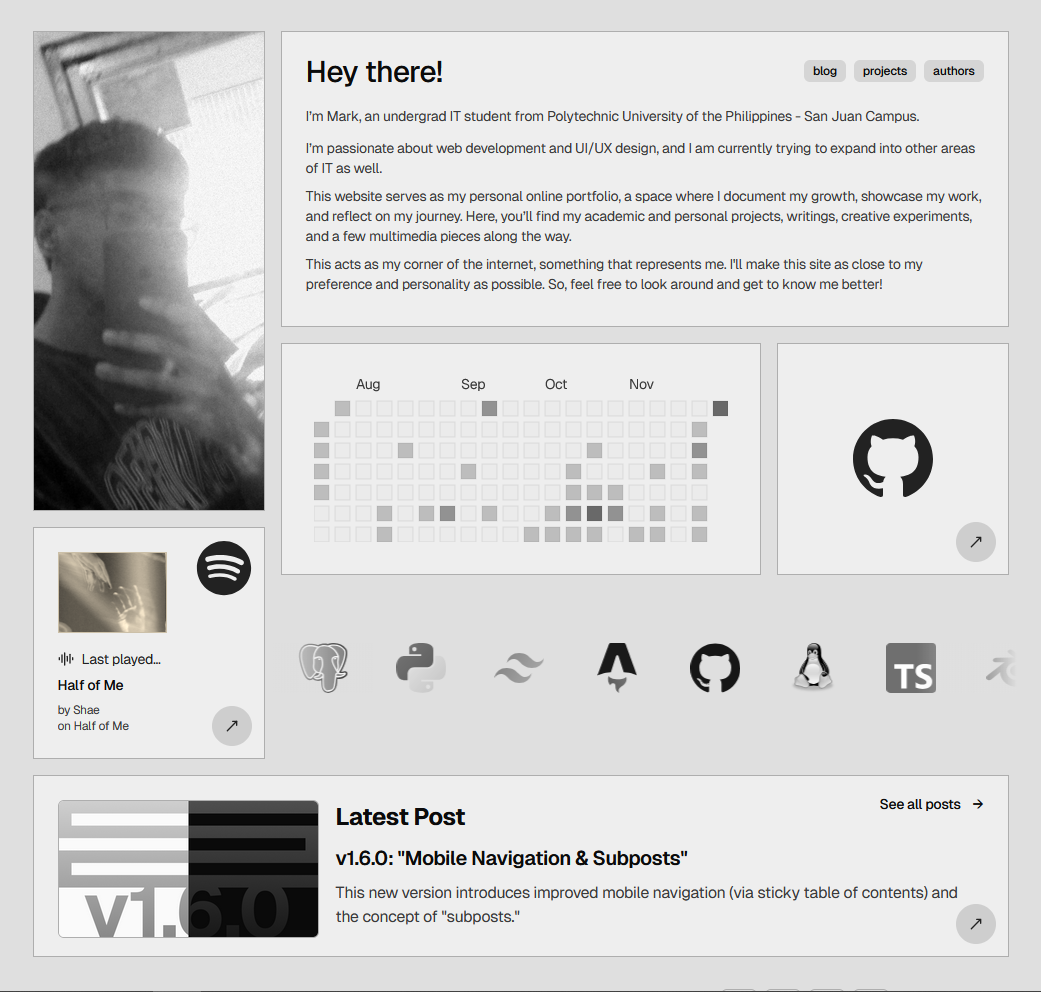
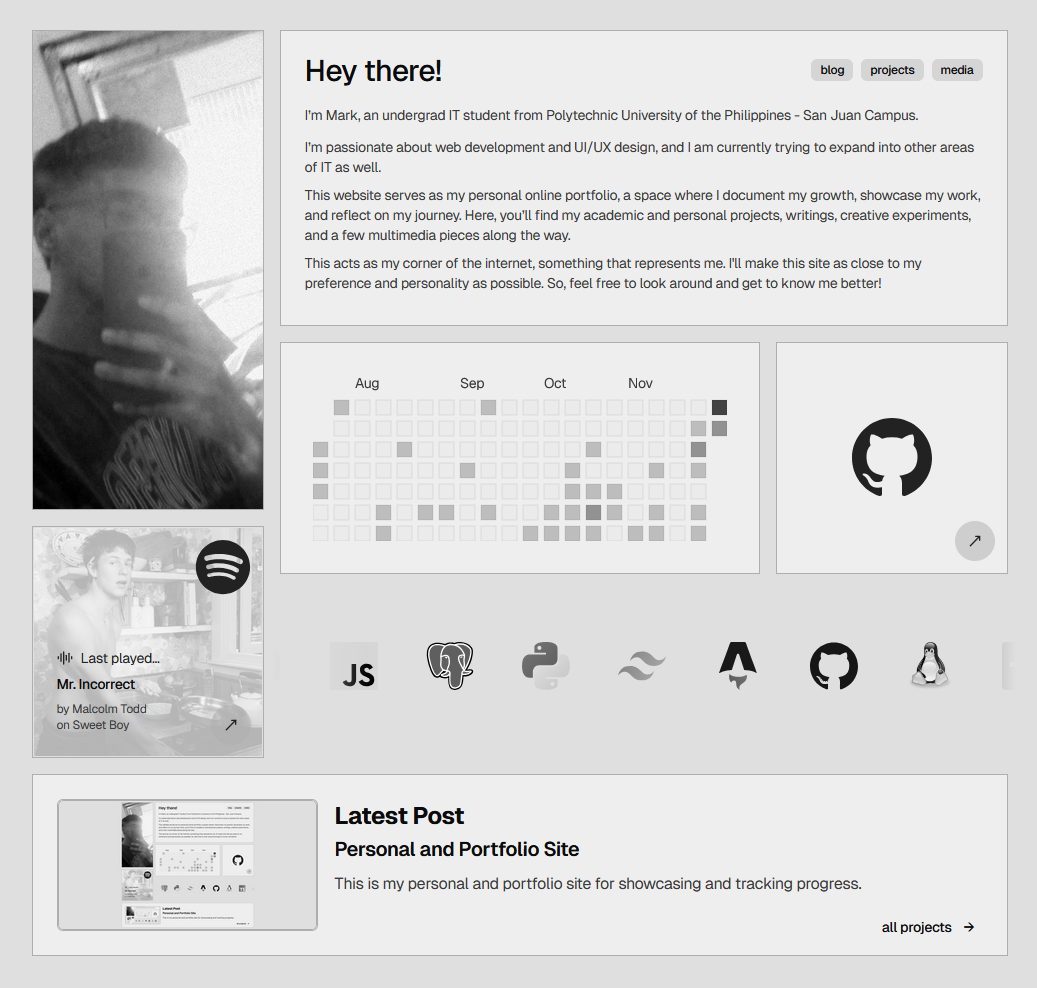
Refactor project schema and update UI for projects
Changed project schema 'name' to 'title' and made 'link' optional. Updated all project markdown files and related components to use 'title'. Improved ProjectCard and homepage UI to better handle projects and blog posts, including dynamic routing and display logic. Updated social links and added Instagram. Refactored data-utils to fetch both blog and project entries and sort by date.

diff --git a/src/lib/data-utils.ts b/src/lib/data-utils.ts
@@ -5,11 +5,26 @@ export async function getAllAuthors(): Promise<CollectionEntry<'authors'>[]> {
   return await getCollection('authors')
 }
 
-export async function getAllPosts(): Promise<CollectionEntry<'blog'>[]> {
-  const posts = await getCollection('blog')
-  return posts
-    .filter((post) => !post.data.draft && !isSubpost(post.id))
-    .sort((a, b) => b.data.date.valueOf() - a.data.date.valueOf())
+// export async function getAllPosts(): Promise<CollectionEntry<'blog'>[]> {
+//   const posts = await getCollection('blog')
+//   return posts
+//     .filter((post) => !post.data.draft && !isSubpost(post.id))
+//     .sort((a, b) => b.data.date.valueOf() - a.data.date.valueOf())
+// }
+
+export async function getAllPosts() {
+  const blog = await getCollection("blog");
+  const projects = await getCollection("projects");
+
+  const getDate = (post) =>
+    post.data.date ||
+    post.data.startDate ||
+    post.data.endDate ||
+    new Date(0);
+
+  return [...blog, ...projects]
+    .filter((post) => !post.data.draft)
+    .sort((a, b) => getDate(b).valueOf() - getDate(a).valueOf());
 }
 
 export async function getAllPostsAndSubposts(): Promise<
@@ -158,17 +173,17 @@ export async function getSubpostsForParent(
 }
 
 export function groupPostsByYear(
-  posts: CollectionEntry<'blog'>[],
-): Record<string, CollectionEntry<'blog'>[]> {
-  return posts.reduce(
-    (acc: Record<string, CollectionEntry<'blog'>[]>, post) => {
-      const year = post.data.date.getFullYear().toString()
-      ;(acc[year] ??= []).push(post)
-      return acc
-    },
-    {},
-  )
+  posts: Array<{ data: { date?: Date } }>
+): Record<string, typeof posts> {
+  return posts.reduce((acc, post) => {
+    if (!post.data.date) return acc; // <-- Skip projects or missing date
+
+    const year = post.data.date.getFullYear().toString();
+    (acc[year] ??= []).push(post);
+    return acc;
+  }, {});
 }
+
 
 export async function hasSubposts(postId: string): Promise<boolean> {
   const subposts = await getSubpostsForParent(postId)

diff --git a/src/components/bento/SpotifyPresence.tsx b/src/components/bento/SpotifyPresence.tsx
@@ -176,14 +176,14 @@ const SpotifyPresence = () => {
         <>
             <div className="relative flex size-full flex-col justify-between gap-4 p-6">
                 <div
-                    className="absolute w-full z-[-1] top-0 left-0 sm:z-1 sm:static aspect-square min-h-0 sm:max-w-[60%] flex-shrink border bg-cover bg-center grayscale"
+                    className="absolute w-full z-[-1] top-0 left-0 aspect-square min-h-0 flex-shrink border bg-cover bg-center grayscale"
                     style={{
                         backgroundImage: `url(${image[3]['#text']})`,
                     }}
                     role="img"
                     aria-label="Album art"
                 />
-                <div className="flex min-h-0 flex-shrink-0 flex-col justify-end">
+                <div className="flex min-h-0 flex-shrink-0 flex-col justify-end h-full">
                     <div className="mr-8 flex flex-col text-xs sm:text-sm">
                         <span className="mb-2 flex items-center gap-2">
                             <AudioLines size={16} className="text-primary hidden sm:block" />

diff --git a/src/consts.ts b/src/consts.ts
@@ -34,17 +34,13 @@ export const SOCIAL_LINKS: SocialLink[] = [
     href: 'https://github.com/pulge',
     label: 'GitHub',
   },
-  // {
-  //   href: 'https://twitter.com/enscry',
-  //   label: 'Twitter',
-  // },
   {
-    href: 'mailto:fulguerinasmarkjason0311@gmail.com',
-    label: 'Email',
+    href: 'https://www.instagram.com/_mark.rcn/',
+    label: 'Instagram',
   },
   {
-    href: 'https://www.linkedin.com/in/fulguerinas-mark-jason-r-a32bbb259/',
-    label: 'LinkedIn',
+    href: 'mailto:markjason742@gmail.com',
+    label: 'Email',
   },
   {
     href: '/rss.xml',
@@ -59,4 +55,5 @@ export const ICON_MAP: IconMap = {
   Twitter: 'lucide:twitter',
   Email: 'lucide:mail',
   RSS: 'lucide:rss',
+  Instagram: 'lucide:instagram',
 }

diff --git a/src/content.config.ts b/src/content.config.ts
@@ -36,11 +36,11 @@ const projects = defineCollection({
   loader: glob({ pattern: '**/*.{md,mdx}', base: './src/content/projects' }),
   schema: ({ image }) =>
     z.object({
-      name: z.string(),
+      title: z.string(),
       description: z.string(),
       tags: z.array(z.string()),
       image: image(),
-      link: z.string().url(),
+      link: z.string().url().optional(),
       startDate: z.coerce.date().optional(),
       endDate: z.coerce.date().optional(),
     }),

diff --git a/src/content/projects/pupcon.md b/src/content/projects/pupcon.md
@@ -1,9 +1,9 @@
 ---
-name: 'PUPCON: Centralized Accreditation Portal for PUP San Juan Campus'
+title: 'PUPCON: Centralized Accreditation Portal for PUP San Juan Campus'
 description: 'This is webiste of DMS and CMS combined, dedicated to help the faculties and staffs in a college campus.'
 tags: ['Web Development', 'Document Management System','Content Management System','Laravel', 'TypeScript', 'Tailwind', 'Sass']
 image: '../../../public/static/projects/pupcon.png'
-link: 'https://example.com'
+# link: ''
 startDate: '2025-02-06'
 # endDate: '2025-01-16'
 ---

diff --git a/src/content/projects/br-typing-test.md b/src/content/projects/br-typing-test.md
@@ -1,5 +1,5 @@
 ---
-name: 'Brain Rot Typing Test'
+title: 'Brain Rot Typing Test'
 description: 'This is a typing test app but with a feature of 3D models of popular brain rot AI-generated characters.'
 tags: ['Web Development','CSS', 'HTML', 'JavaScript', 'ARCore']
 image: '../../../public/static/projects/br-typing-test.png'

diff --git a/src/content/projects/portfolio.md b/src/content/projects/portfolio.md
@@ -1,5 +1,5 @@
 ---
-name: 'Personal and Portfolio Site'
+title: 'Personal and Portfolio Site'
 description: 'This is my personal and portfolio site for showcasing and tracking progress.'
 tags: ['Web development', 'TypeScript', 'Astro', 'Tailwind']
 image: '../../../public/static/projects/portfolio.png'

diff --git a/src/content/projects/project-aura.md b/src/content/projects/project-aura.md
@@ -1,5 +1,5 @@
 ---
-name: 'Project Aura'
+title: 'Project Aura'
 description: 'This is a website to experience both Augmented Reality and Virtual Reality.'
 tags: ['Web Development','three.js', 'Blender', 'WebXR', 'CSS', 'JavaScript']
 image: '../../../public/static/projects/project-aura.png'
